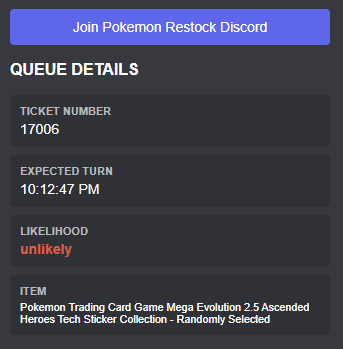
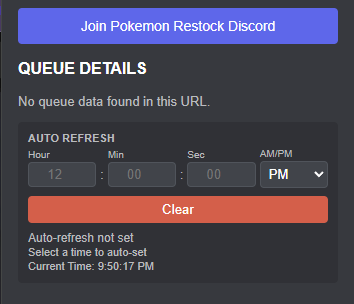
feat: Implement auto-refresh functionality with configurable time settings and storage.

diff --git a/popup.js b/popup.js
@@ -1,36 +1,155 @@
 document.addEventListener('DOMContentLoaded', async () => {
-    const display = document.getElementById('display');
+  const display = document.getElementById('display');
 
-    // Get the current active tab
-    const [tab] = await chrome.tabs.query({ active: true, currentWindow: true });
+  // Get the current active tab
+  // Auto Refresh Logic
+  const hourInput = document.getElementById('refresh-hour');
+  const minuteInput = document.getElementById('refresh-minute');
+  const secondInput = document.getElementById('refresh-second');
+  const ampmInput = document.getElementById('refresh-ampm');
+  const clearBtn = document.getElementById('clear-refresh');
+  const statusDiv = document.getElementById('refresh-status');
 
-    // Handle Discord link click
-    const discordLink = document.querySelector('.discord-btn');
-    if (discordLink) {
-        discordLink.addEventListener('click', (e) => {
-            e.preventDefault();
-            chrome.tabs.create({ url: e.currentTarget.href });
-        });
+  function formatTime(timeString) {
+    if (!timeString) return '';
+    const parts = timeString.split(':');
+    const hours = parts[0];
+    const minutes = parts[1];
+    const seconds = parts[2] || '00';
+
+    const date = new Date();
+    date.setHours(hours);
+    date.setMinutes(minutes);
+    date.setSeconds(seconds);
+
+    return date.toLocaleTimeString([], { hour: 'numeric', minute: '2-digit', second: '2-digit' });
+  }
+
+  function updateUI(time) {
+    if (!time) {
+      hourInput.value = '';
+      minuteInput.value = '';
+      secondInput.value = '';
+      ampmInput.value = 'PM';
+      return;
     }
 
-    try {
-        const url = new URL(tab.url);
-        const qpdataEncoded = url.searchParams.get('qpdata');
+    const parts = time.split(':');
+    let hours = parseInt(parts[0]);
+    const minutes = parts[1];
+    const seconds = parts[2] || '00';
 
-        if (!qpdataEncoded) {
-            display.innerHTML = "<p>No queue data found in this URL.</p>";
-            return;
-        }
+    const ampm = hours >= 12 ? 'PM' : 'AM';
+    hours = hours % 12;
+    hours = hours ? hours : 12; // the hour '0' should be '12'
 
-        const data = JSON.parse(decodeURIComponent(qpdataEncoded));
+    hourInput.value = hours;
+    minuteInput.value = minutes;
+    secondInput.value = seconds;
+    ampmInput.value = ampm;
+  }
 
-        // Format the Turn Time if it exists
-        let turnTimeStr = "N/A";
-        if (data.expectedTurnTimeUnixTimestamp) {
-            turnTimeStr = new Date(data.expectedTurnTimeUnixTimestamp).toLocaleTimeString();
-        }
+  // State to hold the current scheduled time
+  let currentScheduledTime = null;
 
-        display.innerHTML = `
+  function updateStatus(time) {
+    currentScheduledTime = time; // Update state
+    if (!time) {
+      updateUI(null);
+    }
+    renderStatus();
+  }
+
+  function renderStatus() {
+    const nowStr = new Date().toLocaleTimeString();
+    if (currentScheduledTime) {
+      statusDiv.innerHTML = `Refresh set for <span style="color: #3ba55c; font-weight: bold;">${formatTime(currentScheduledTime)}</span><br><span style="color: #b9bbbe; font-size: 11px;">Current: ${nowStr}</span>`;
+    } else {
+      statusDiv.innerHTML = `Auto-refresh not set<br><span style="color: #b9bbbe; font-size: 11px;">Select a time to auto-set</span><br><span style="color: #b9bbbe; font-size: 11px;">Current Time: ${nowStr}</span>`;
+      // Don't call updateUI(null) here constantly to prevent clearing inputs while typing
+    }
+  }
+
+  // Update clock every second
+  setInterval(renderStatus, 1000);
+
+  // Auto-save logic
+  function saveTime() {
+    let h = parseInt(hourInput.value);
+    let m = parseInt(minuteInput.value);
+    let s = parseInt(secondInput.value) || 0;
+    const ampm = ampmInput.value;
+
+    if (isNaN(h) || isNaN(m)) return; // Don't save if incomplete
+
+    // Convert to 24h
+    if (ampm === 'PM' && h < 12) h += 12;
+    if (ampm === 'AM' && h === 12) h = 0;
+
+    // Pad
+    const hStr = h.toString().padStart(2, '0');
+    const mStr = m.toString().padStart(2, '0');
+    const sStr = s.toString().padStart(2, '0');
+
+    const time = `${hStr}:${mStr}:${sStr}`;
+
+    chrome.storage.local.set({ refreshTime: time }, () => {
+      // updateStatus only for text, avoiding input overwrite for smoother UX
+      updateStatus(time);
+    });
+  }
+
+  [hourInput, minuteInput, secondInput, ampmInput].forEach(el => {
+    el.addEventListener('change', saveTime);
+    el.addEventListener('keyup', saveTime); // Also save on typing
+  });
+
+  // Load saved time
+  chrome.storage.local.get(['refreshTime'], (result) => {
+    if (result && result.refreshTime) {
+      updateUI(result.refreshTime);
+      updateStatus(result.refreshTime);
+    } else {
+      updateStatus(null);
+    }
+  });
+
+  clearBtn.addEventListener('click', () => {
+    chrome.storage.local.remove(['refreshTime'], () => {
+      updateStatus(null);
+    });
+  });
+  const [tab] = await chrome.tabs.query({ active: true, currentWindow: true });
+
+  // Handle Discord link click
+  const discordLink = document.querySelector('.discord-btn');
+  if (discordLink) {
+    discordLink.addEventListener('click', (e) => {
+      e.preventDefault();
+      chrome.tabs.create({ url: e.currentTarget.href });
+    });
+  }
+
+
+
+  try {
+    const url = new URL(tab.url);
+    const qpdataEncoded = url.searchParams.get('qpdata');
+
+    if (!qpdataEncoded) {
+      display.innerHTML = "<p>No queue data found in this URL.</p>";
+      return;
+    }
+
+    const data = JSON.parse(decodeURIComponent(qpdataEncoded));
+
+    // Format the Turn Time if it exists
+    let turnTimeStr = "N/A";
+    if (data.expectedTurnTimeUnixTimestamp) {
+      turnTimeStr = new Date(data.expectedTurnTimeUnixTimestamp).toLocaleTimeString();
+    }
+
+    display.innerHTML = `
       <div class="data-item">
         <div class="label">Ticket Number</div>
         <div class="value">${data.ticket || 'Click Hold my Spot and Check Again'}</div>
@@ -48,7 +167,8 @@ document.addEventListener('DOMContentLoaded', async () => {
         <div class="value" style="font-size: 0.9em;">${data.customMetadata?.item?.name || 'Unknown Item'}</div>
       </div>
     `;
-    } catch (e) {
-        display.innerHTML = "<p>Error decoding data.</p>";
-    }
+  } catch (e) {
+    display.innerHTML = "<p>Error decoding data.</p>";
+  }
 });
+

diff --git a/content.js b/content.js
@@ -1,0 +1,102 @@
+// Check for saved refresh time on load
+console.log("WM Queue Decoder: Content script loaded");
+chrome.storage.local.get(['refreshTime'], (result) => {
+    console.log("WM Queue Decoder: Initial storage check", result);
+    if (result.refreshTime) {
+        scheduleRefresh(result.refreshTime);
+    }
+});
+
+// Listen for changes
+chrome.storage.onChanged.addListener((changes, namespace) => {
+    if (namespace === 'local' && changes.refreshTime) {
+        if (changes.refreshTime.newValue) {
+            scheduleRefresh(changes.refreshTime.newValue);
+        } else {
+            if (notificationInterval) clearInterval(notificationInterval);
+            console.log("WM Queue Decoder: Auto-refresh cleared.");
+            showNotification("Auto-refresh cleared");
+            setTimeout(() => {
+                let el = document.getElementById('wm-checker-notification');
+                if (el) el.remove();
+            }, 2000);
+        }
+    }
+});
+
+let refreshTimeout;
+
+function scheduleRefresh(timeString) {
+    if (refreshTimeout) clearTimeout(refreshTimeout);
+
+    const now = new Date();
+    const parts = timeString.split(':').map(Number);
+    const hours = parts[0];
+    const minutes = parts[1];
+    const seconds = parts[2] || 0;
+
+    // Create a date object for the scheduled time on the current day
+    const refreshTime = new Date(now);
+    refreshTime.setHours(hours, minutes, seconds, 0);
+
+    // If the scheduled time is earlier than now, assume it's for tomorrow.
+    if (refreshTime < now) {
+        refreshTime.setDate(refreshTime.getDate() + 1);
+    }
+
+    const delay = refreshTime - now;
+
+    console.log(`WM Queue Decoder: Refreshing in ${delay}ms at ${refreshTime.toLocaleString()}`);
+    console.log(`WM Queue Decoder: Current time is ${now.toLocaleString()}`);
+
+    // Start notification update loop
+    startNotificationLoop(refreshTime);
+
+    refreshTimeout = setTimeout(() => {
+        console.log("WM Queue Decoder: Triggering reload now");
+        // Clear the refresh time before reloading so it doesn't loop or stay set for tomorrow
+        chrome.storage.local.remove(['refreshTime'], () => {
+            console.log("WM Queue Decoder: Refresh time cleared from storage");
+            window.location.reload();
+        });
+    }, delay);
+}
+
+let notificationInterval;
+
+function startNotificationLoop(refreshTime) {
+    if (notificationInterval) clearInterval(notificationInterval);
+
+    const update = () => {
+        const now = new Date();
+        let message = `Auto-refresh set for ${refreshTime.toLocaleTimeString([], { hour: 'numeric', minute: '2-digit', second: '2-digit' })}`;
+        if (refreshTime.getDate() !== now.getDate()) {
+            message += " (Tomorrow)";
+        }
+        message += ` | Current Time: ${now.toLocaleTimeString()}`;
+        showNotification(message);
+    };
+
+    update(); // Initial call
+    notificationInterval = setInterval(update, 1000);
+}
+
+function showNotification(message) {
+    let el = document.getElementById('wm-checker-notification');
+    if (!el) {
+        el = document.createElement('div');
+        el.id = 'wm-checker-notification';
+        el.style.position = 'fixed';
+        el.style.bottom = '20px';
+        el.style.right = '20px';
+        el.style.backgroundColor = '#0071dc'; // Walmart blue
+        el.style.color = 'white';
+        el.style.padding = '10px 20px';
+        el.style.borderRadius = '4px';
+        el.style.zIndex = '9999';
+        el.style.boxShadow = '0 2px 5px rgba(0,0,0,0.2)';
+        el.style.fontFamily = 'sans-serif';
+        document.body.appendChild(el);
+    }
+    el.textContent = message;
+}

diff --git a/popup.html b/popup.html
@@ -83,9 +83,48 @@
     <a href="https://discord.com/invite/7n4VEx9jaU" target="_blank" class="discord-btn">
         Join Pokemon Restock Discord
     </a>
+
+
+
     <h3>Queue Details</h3>
     <div id="display">
         <p>Please open a Walmart Queue page.</p>
+    </div>
+
+    <div class="data-item">
+        <div class="label">Auto Refresh</div>
+        <div style="display: flex; gap: 4px; align-items: center; margin-bottom: 8px;">
+            <div style="flex: 1; display: flex; flex-direction: column;">
+                <label style="font-size: 10px; color: #b9bbbe; margin-bottom: 2px;">Hour</label>
+                <input type="number" id="refresh-hour" min="1" max="12" placeholder="12"
+                    style="padding: 4px; border-radius: 4px; border: 1px solid #4f545c; background: #40444b; color: white; text-align: center;">
+            </div>
+            <span style="color: #b9bbbe; padding-top: 14px;">:</span>
+            <div style="flex: 1; display: flex; flex-direction: column;">
+                <label style="font-size: 10px; color: #b9bbbe; margin-bottom: 2px;">Min</label>
+                <input type="number" id="refresh-minute" min="0" max="59" placeholder="00"
+                    style="padding: 4px; border-radius: 4px; border: 1px solid #4f545c; background: #40444b; color: white; text-align: center;">
+            </div>
+            <span style="color: #b9bbbe; padding-top: 14px;">:</span>
+            <div style="flex: 1; display: flex; flex-direction: column;">
+                <label style="font-size: 10px; color: #b9bbbe; margin-bottom: 2px;">Sec</label>
+                <input type="number" id="refresh-second" min="0" max="59" placeholder="00"
+                    style="padding: 4px; border-radius: 4px; border: 1px solid #4f545c; background: #40444b; color: white; text-align: center;">
+            </div>
+            <div style="flex: 1; display: flex; flex-direction: column;">
+                <label style="font-size: 10px; color: #b9bbbe; margin-bottom: 2px;">AM/PM</label>
+                <select id="refresh-ampm"
+                    style="padding: 4px; border-radius: 4px; border: 1px solid #4f545c; background: #40444b; color: white;">
+                    <option value="AM">AM</option>
+                    <option value="PM" selected>PM</option>
+                </select>
+            </div>
+        </div>
+        <div style="display: flex; gap: 8px;">
+            <button id="clear-refresh"
+                style="flex: 1; padding: 6px; background: #ed4245; border: none; border-radius: 4px; color: white; cursor: pointer;">Clear</button>
+        </div>
+        <div id="refresh-status" style="margin-top: 8px; font-size: 12px; color: #b9bbbe;"></div>
     </div>
     <script src="popup.js"></script>
 </body>

diff --git a/README.md b/README.md
@@ -6,6 +6,7 @@ A Chrome extension designed to decode Walmart Queue-it data directly from the UR
 ## Features
 
 - **Decodes Queue Parameters**: Extracts ticket number, expected turn time, and admission likelihood.
+- **Auto-Refresh**: Set a specific time for the page to automatically refresh, ensuring you're ready for the drop.
 - **Discord Theme**: Sleek dark interface matching Discord's aesthetic.
 - **Quick Links**: Direct access to the Pokemon Notify Discord community.
 
@@ -23,6 +24,24 @@ To install this extension in Google Chrome:
 5.  Select the folder where you extracted the files (this folder should contain the `manifest.json` file).
 6.  The extension should now appear in your list and be ready to use!
 
+## Updating the Extension
+
+Since this extension is manually installed, follow these steps to update it:
+
+### Option A: Git Users
+1.  Open your terminal in the project folder.
+2.  Run `git pull` to fetch the latest changes.
+3.  Go to `chrome://extensions/` in your browser.
+4.  Find the **Walmart Queue Decoder** card.
+5.  Click the small **Reload** icon (circular arrow) in the bottom right of the card.
+
+### Option B: ZIP Users
+1.  Download the latest ZIP file from the repository.
+2.  Extract the contents into the *same folder* where you previously installed the extension (overwrite the existing files).
+3.  Go to `chrome://extensions/` in your browser.
+4.  Find the **Walmart Queue Decoder** card.
+5.  Click the small **Reload** icon (circular arrow) in the bottom right of the card.
+
 ## Usage
 
 1.  Navigate to a Walmart Queue page during a drop.
@@ -32,6 +51,16 @@ To install this extension in Google Chrome:
     -   **Expected Turn**: Estimated time of entry.
     -   **Likelihood**: Probability of gaining access.
     -   **Item**: The product you are queuing for.
+    -   **Auto-Refresh**: Use the inputs to set a time for the page to refresh automatically.
+
+
+## FAQ
+
+**Q: Does the auto-refresh reload the whole browser?**
+**A:** Yes. The timer syncs across all open tabs and windows using Chrome's storage. When the time arrives, *all* tabs with the extension active will reload simultaneously. This uses the browser's shared storage to ensure every instance is ready.
+
+**Q: Should I use a proxy for multiple windows?**
+**A:** Yes. If you are running multiple instances (especially with the same IP), Walmart may flag your traffic. Using proxies for separate windows/profiles is recommended to avoid IP bans. I recommend [BP Proxy Switcher](https://chromewebstore.google.com/detail/bp-proxy-switcher/bapeomcobggcdleohggighcjbeeglhbn?hl=en) for easy proxy management.
 
 ## Community
 
